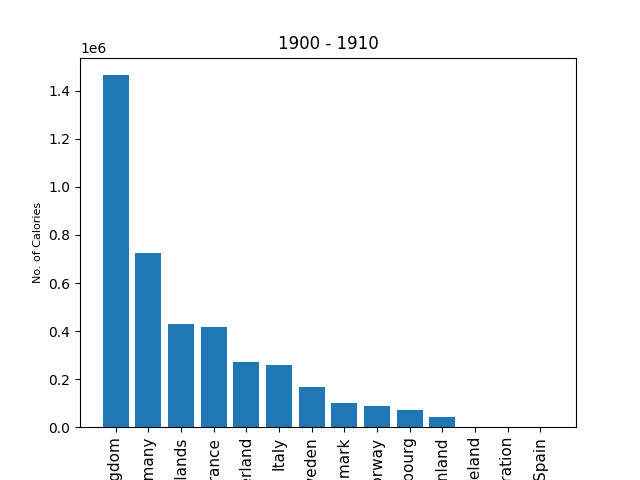
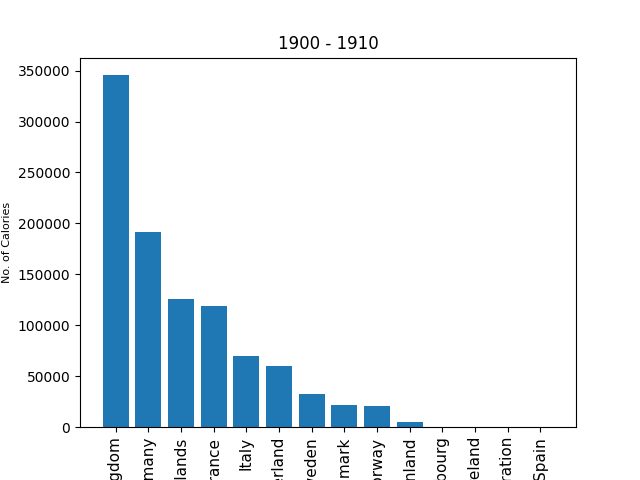
updateU

diff --git a/6_ASP_Project.py b/6_ASP_Project.py
@@ -7,10 +7,26 @@ print(open)
 open1 = open["Periods"].str.split(" ", n = 1, expand = True)
 data = open.assign(Period= open1[0])
 data.index = data["Period"]
-
 data1 = data.loc[(data.Period >= str(1978)) & (data.Period <= str(1987))]
+data2 = data.loc[(data.Period >= str(1978)) & (data.Period <= str(1980))]
+
+colExtra = data1.filter(items=['Periods','Belgium & Luxembourg','Denmark',
+ 'Finland', 'France', 'Germany', 'Italy', 'Netherlands', 'Norway',
+ 'Rep Of Ireland', 'Russian Federation', 'Spain', 'Sweden', 'Switzerland',
+ 'United Kingdom'])
+
+print(colExtra.head(3))
+print(colExtra.tail(3))
+
+
+
 
 col = data1.filter(items=['Belgium & Luxembourg','Denmark',
+ 'Finland', 'France', 'Germany', 'Italy', 'Netherlands', 'Norway',
+ 'Rep Of Ireland', 'Russian Federation', 'Spain', 'Sweden', 'Switzerland',
+ 'United Kingdom'])
+
+col2 = data2.filter(items=['Belgium & Luxembourg','Denmark',
  'Finland', 'France', 'Germany', 'Italy', 'Netherlands', 'Norway',
  'Rep Of Ireland', 'Russian Federation', 'Spain', 'Sweden', 'Switzerland',
  'United Kingdom'])
@@ -23,33 +39,41 @@ col = col.replace('na', 0, regex= True)
 col = col.astype(int)
 total = col.sum(axis=0, skipna=True)
 totalsum = total.sort_values(ascending=False)
+
+col2 = col2.replace(',', '', regex= True)
+col2 = col2.replace('na', 0, regex= True)
+col2 = col2.astype(int)
+total3 = col2.sum(axis=0, skipna=True)
+totalsum3 = total3.sort_values(ascending=False)
+
 print("\n-------Sorted Countries-------")
 print(totalsum)
 print("\n-------Top 3 Countries-------")
 print(totalsum.head(3))
-print(sum(totalsum.head(3)))
-print(totalsum.head(3).mean())
+print("The total no. of visitors for the top 3 countries is",sum(totalsum.head(3)))
+print("The mean value for the top 3 countries is",round(totalsum.head(3).mean(), 2))
+print("\n---------Top 3 Countries---------")
+print(col.head(3))
+print("\n---------Indexes Countries---------")
+print(col.columns)
 
 def allCountry():
-    print("\n---------Top 3 Countries---------")
-    print(col.head(3))
-    print("\n---------Selected Countries---------")
-    print(col.columns)
-    print("\nCHART:")
+    print("\nAll Country Chart:")
     y = total.sort_values(ascending=False)
     x = np.arange(len(y.index))
     plt.xlabel('Year', fontsize=13)
-    plt.ylabel('No. of Calories', fontsize=8)
-    plt.xticks(x, y.index, fontsize=11, rotation=90)
+    plt.ylabel('No. of Travellers (in thousands)', fontsize=8)
+    plt.xticks(x, y.index, fontsize=11, rotation=75)
     plt.title('1900 - 1910')
     plt.bar(y.index, y.values)
     plt.savefig("1900 - 1910")
     plt.show()
 
 def top3():
-    print("First:")
-    y = total.sort_values(ascending=False)
+    
+    y = totalsum3.sort_values(ascending=False)
     x = np.arange(len(y.index))
+    print("\nTop 3 Chart:")
     plt.xlabel('Year', fontsize=13)
     plt.ylabel('No. of Calories', fontsize=8)
     plt.xticks(x, y.index, fontsize=11, rotation=90)
@@ -58,4 +82,6 @@ def top3():
     plt.savefig("1900 - 1910")
     plt.show()
 
+
 allCountry()
+top3()
